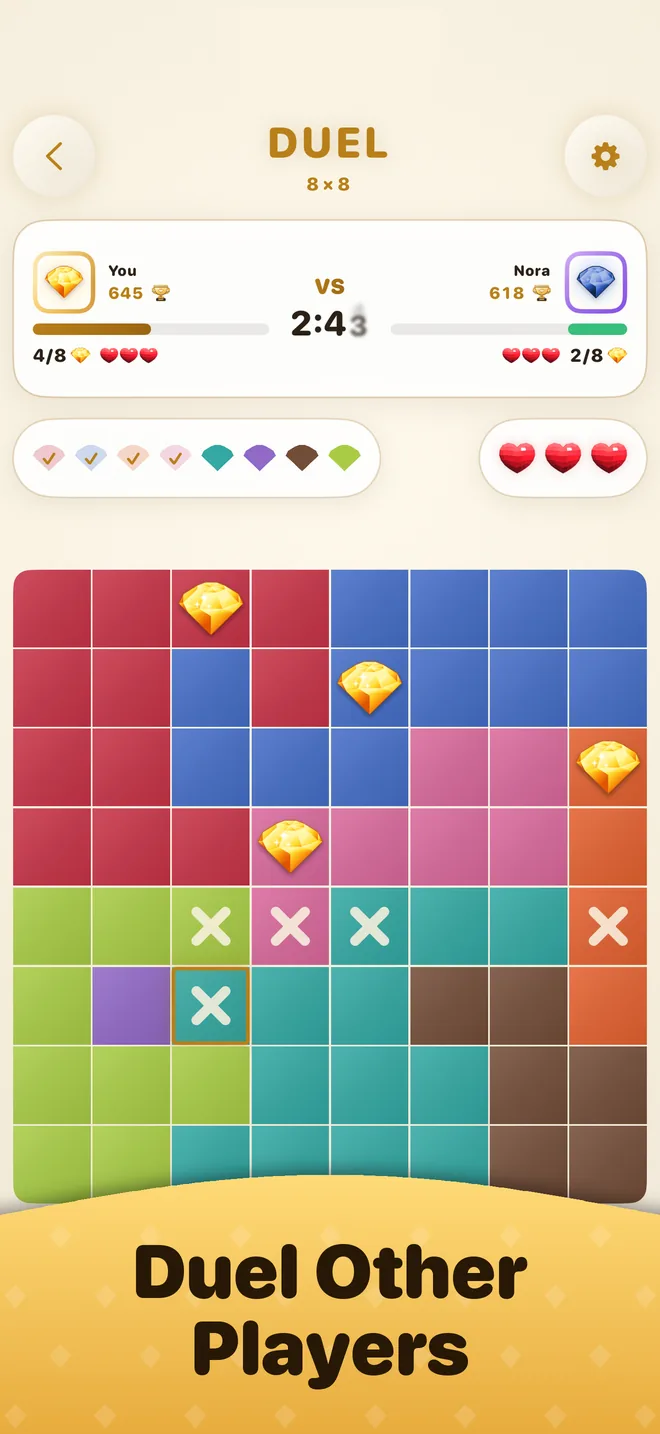
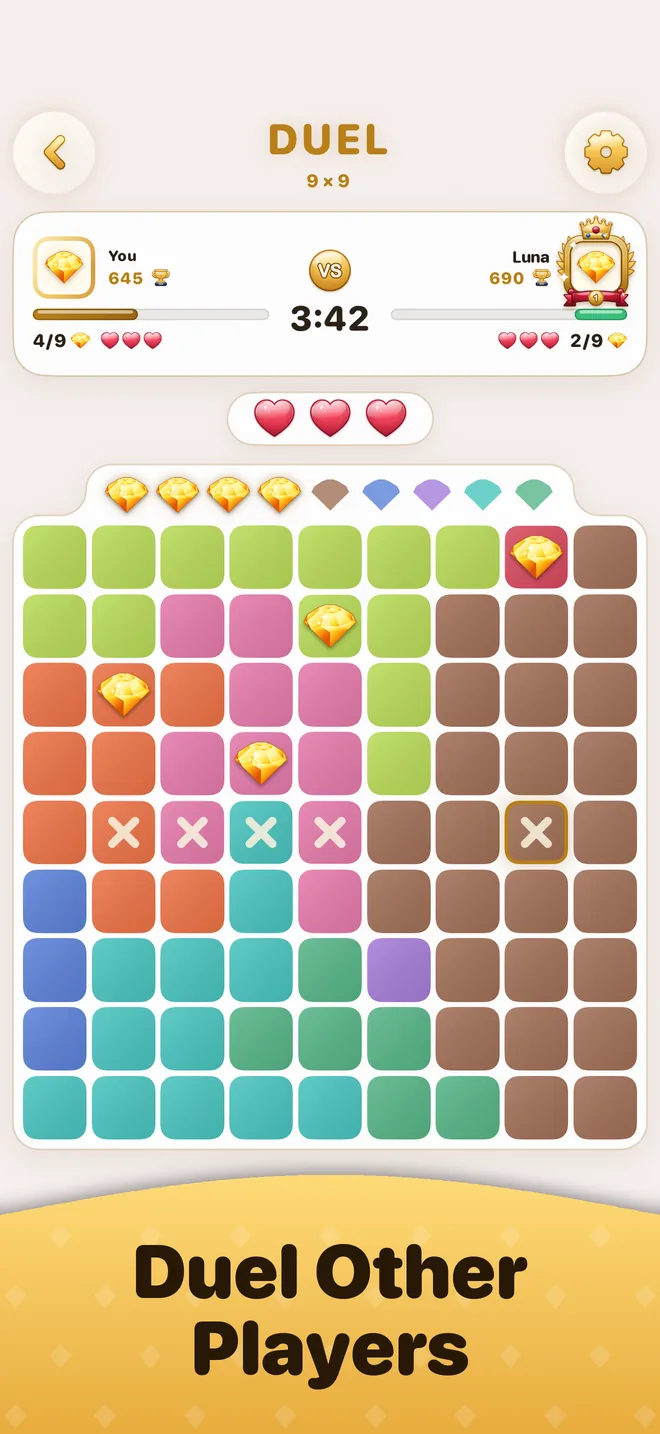
Show version 1.5 on the site: 2000 levels and duels with friends
The store images are the 1.5 set with the new level screen, the duel
section shows the friends screen next to a duel and says you can race
your friends live, the league section mentions the Legends, and every
place that said 1000 levels now says 2000. The link preview is the first
1.5 gallery slide.

diff --git a/index.html b/index.html
@@ -5,11 +5,11 @@
   <meta name="viewport" content="width=device-width, initial-scale=1">
   <meta name="theme-color" content="#fffaf0">
   <title>Diadoku: Logic, not luck</title>
-  <meta name="description" content="A calm logic puzzle for iPhone and iPad. Place one diamond in every row, column and color, and no two diamonds may touch. Every board has exactly one solution. 1000 levels, duels against other players, a daily puzzle and a weekly star league, free.">
+  <meta name="description" content="A calm logic puzzle for iPhone and iPad. Place one diamond in every row, column and color, and no two diamonds may touch. Every board has exactly one solution. 2000 levels, duels against other players and friends, a daily puzzle and a weekly star league, free.">
   <link rel="canonical" href="https://diadoku.com/">
   <meta property="og:type" content="website">
   <meta property="og:title" content="Diadoku: Logic, not luck">
-  <meta property="og:description" content="Place one diamond in every row, column and color. Every board has exactly one solution. 1000 levels and duels, free on iPhone and iPad.">
+  <meta property="og:description" content="Place one diamond in every row, column and color. Every board has exactly one solution. 2000 levels and duels with friends, free on iPhone and iPad.">
   <meta property="og:url" content="https://diadoku.com/">
   <meta property="og:image" content="https://diadoku.com/assets/og.jpg">
   <meta property="og:image:width" content="1270">
@@ -38,7 +38,7 @@
         <h1>Logic, <em>not luck.</em></h1>
         <p class="lead">Place one diamond in every row, column and color. No two diamonds ever touch. Every board has exactly one solution.</p>
         <ul class="chips" aria-label="Highlights">
-          <li>1000 levels</li>
+          <li>2000 levels</li>
           <li>Duels</li>
           <li>Daily puzzle</li>
           <li class="gold">Free</li>
@@ -74,13 +74,13 @@
 
     <section class="feature feature--flip" aria-labelledby="duel-title">
       <div class="copy">
-        <p class="eyebrow">New: Duels</p>
+        <p class="eyebrow">New: Duel your friends</p>
         <h2 id="duel-title">Same board. <em>Who is faster?</em></h2>
-        <p class="lead">Race another player on the same board, with three hearts, no hints and three minutes. Win trophies and climb six leagues from Quartz to Diamond, with a new season every month.</p>
+        <p class="lead">Race another player on the same board, with three hearts and no hints. Win trophies and climb six leagues from Quartz to Diamond, with a new season every month. Or add your friends by name or with a link and race them live.</p>
       </div>
       <div class="shots pair">
-        <img src="assets/store/04-duel-other-players.webp" width="660" height="1434" loading="lazy" alt="A duel: you and your opponent race on the same 8 by 8 board">
-        <img src="assets/store/05-climb-to-diamond.webp" width="660" height="1434" loading="lazy" alt="The duel lobby with your league, your trophies and the season">
+        <img src="assets/store/04-duel-other-players.webp" width="660" height="1434" loading="lazy" alt="A duel: you and your opponent race on the same board">
+        <img src="assets/store/05-duel-your-friends.webp" width="660" height="1434" loading="lazy" alt="The friends screen: invite friends and play them live">
       </div>
     </section>
 
@@ -91,7 +91,7 @@
         <p class="lead">Light your streak flame with the first level of the day, keep it going, earn bonus hints on every 7th day and go for three stars.</p>
       </div>
       <div class="shots single">
-        <img src="assets/store/06-daily-challenge.webp" width="660" height="1434" loading="lazy" alt="The daily challenge, a 5 by 5 board">
+        <img src="assets/store/06-daily-challenge.webp" width="660" height="1434" loading="lazy" alt="The daily challenge with its streak">
       </div>
     </section>
 
@@ -99,11 +99,10 @@
       <div class="copy">
         <p class="eyebrow">Weekly league</p>
         <h2 id="league-title">Climb the <em>weekly league.</em></h2>
-        <p class="lead">Collect stars, climb the leaderboard, and the top 3 win crown frames. Pick your gem avatar and your frame.</p>
+        <p class="lead">Collect stars, climb the weekly league and the all-time Legends, and the top 3 win crown frames. Pick your gem avatar and your frame.</p>
       </div>
-      <div class="shots pair">
+      <div class="shots single">
         <img src="assets/store/07-leaderboard.webp" width="660" height="1434" loading="lazy" alt="The weekly leaderboard with a podium for the top 3">
-        <img src="assets/store/gems-and-frames.webp" width="660" height="1434" loading="lazy" alt="The profile with gem avatars and frames">
       </div>
     </section>
 
@@ -112,7 +111,7 @@
         <p class="eyebrow">Made with care</p>
         <h2 id="calm-title">Calm, clean <em>and yours.</em></h2>
         <ul class="ticks">
-          <li>1000 levels, from 4 by 4 to 10 by 10</li>
+          <li>2000 levels, from 4 by 4 to 10 by 10</li>
           <li>On iPhone and iPad</li>
           <li>Light and dark look</li>
           <li>7 languages</li>
@@ -129,7 +128,7 @@
     <section class="final" aria-labelledby="final-title">
       <img src="assets/icon-256.png" width="96" height="96" alt="">
       <h2 id="final-title">Think. Place. Solve.</h2>
-      <p>1000 levels, duels and a new puzzle every day. Free on iPhone and iPad.</p>
+      <p>2000 levels, duels with friends and a new puzzle every day. Free on iPhone and iPad.</p>
       <a class="store-badge" href="https://apps.apple.com/app/apple-store/id6808338155?pt=129407361&amp;ct=website&amp;mt=8" target="_blank" rel="noopener noreferrer">
         <svg viewBox="0 0 24 24" aria-hidden="true"><path d="M16.7 12.8c0-2.3 1.9-3.4 2-3.5a4.3 4.3 0 0 0-3.4-1.8c-1.4-.1-2.7.8-3.4.8-.7 0-1.8-.8-3-.8a4.5 4.5 0 0 0-3.8 2.3c-1.6 2.8-.4 6.9 1.1 9.2.8 1.1 1.6 2.3 2.7 2.2 1.1 0 1.5-.7 2.9-.7s1.8.7 3 .7 2-1.1 2.7-2.3a10 10 0 0 0 1.2-2.5 4 4 0 0 1-2-3.6ZM14.4 6a4.2 4.2 0 0 0 1-3 4.3 4.3 0 0 0-2.8 1.5 4 4 0 0 0-1 2.9 3.6 3.6 0 0 0 2.8-1.4Z"/></svg>
         <span><small>Download on the</small><strong>App Store</strong></span>
